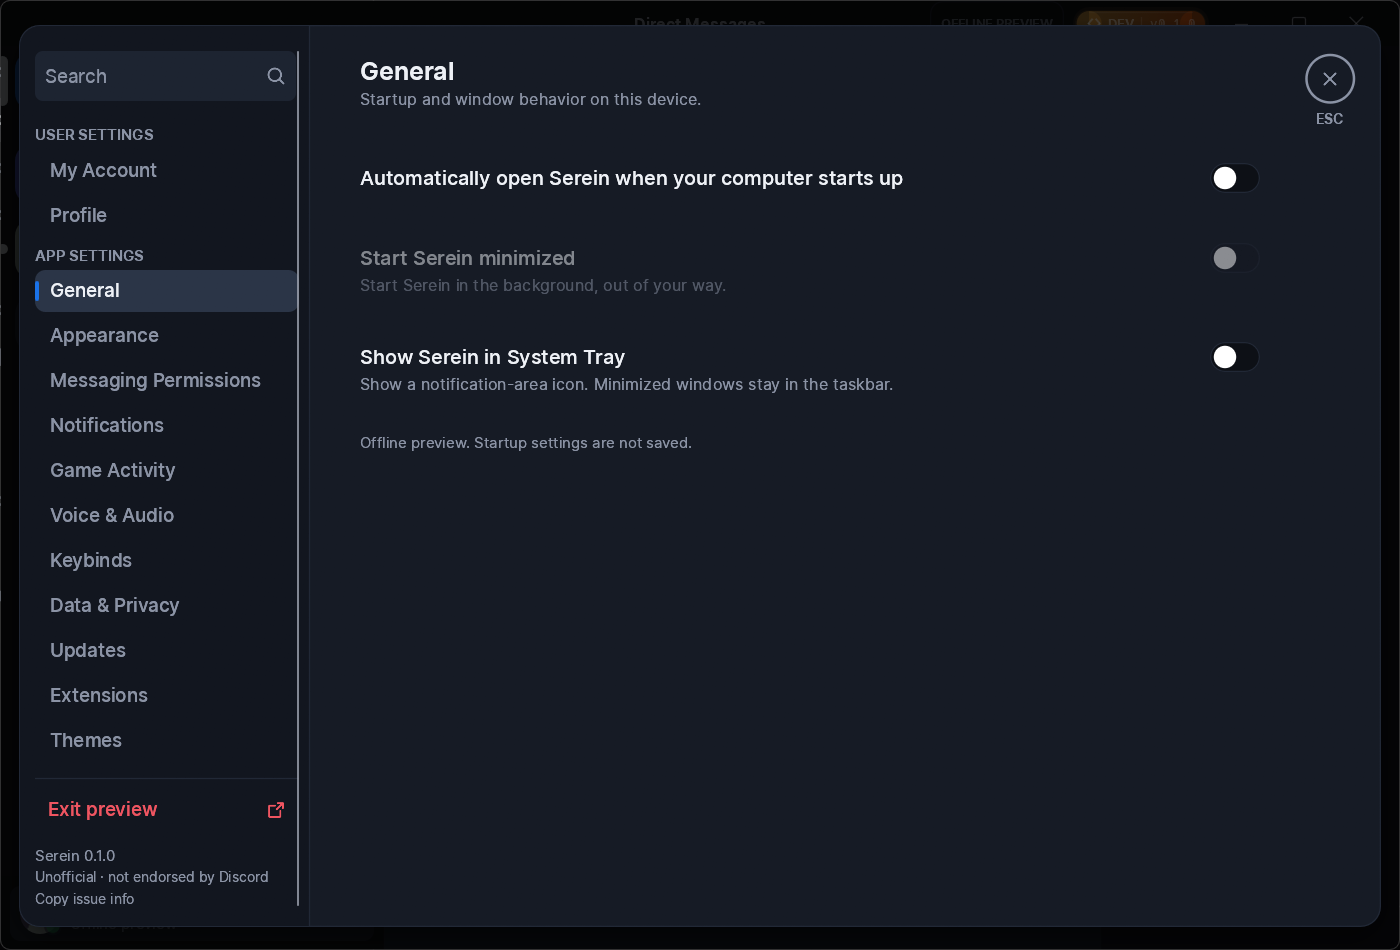
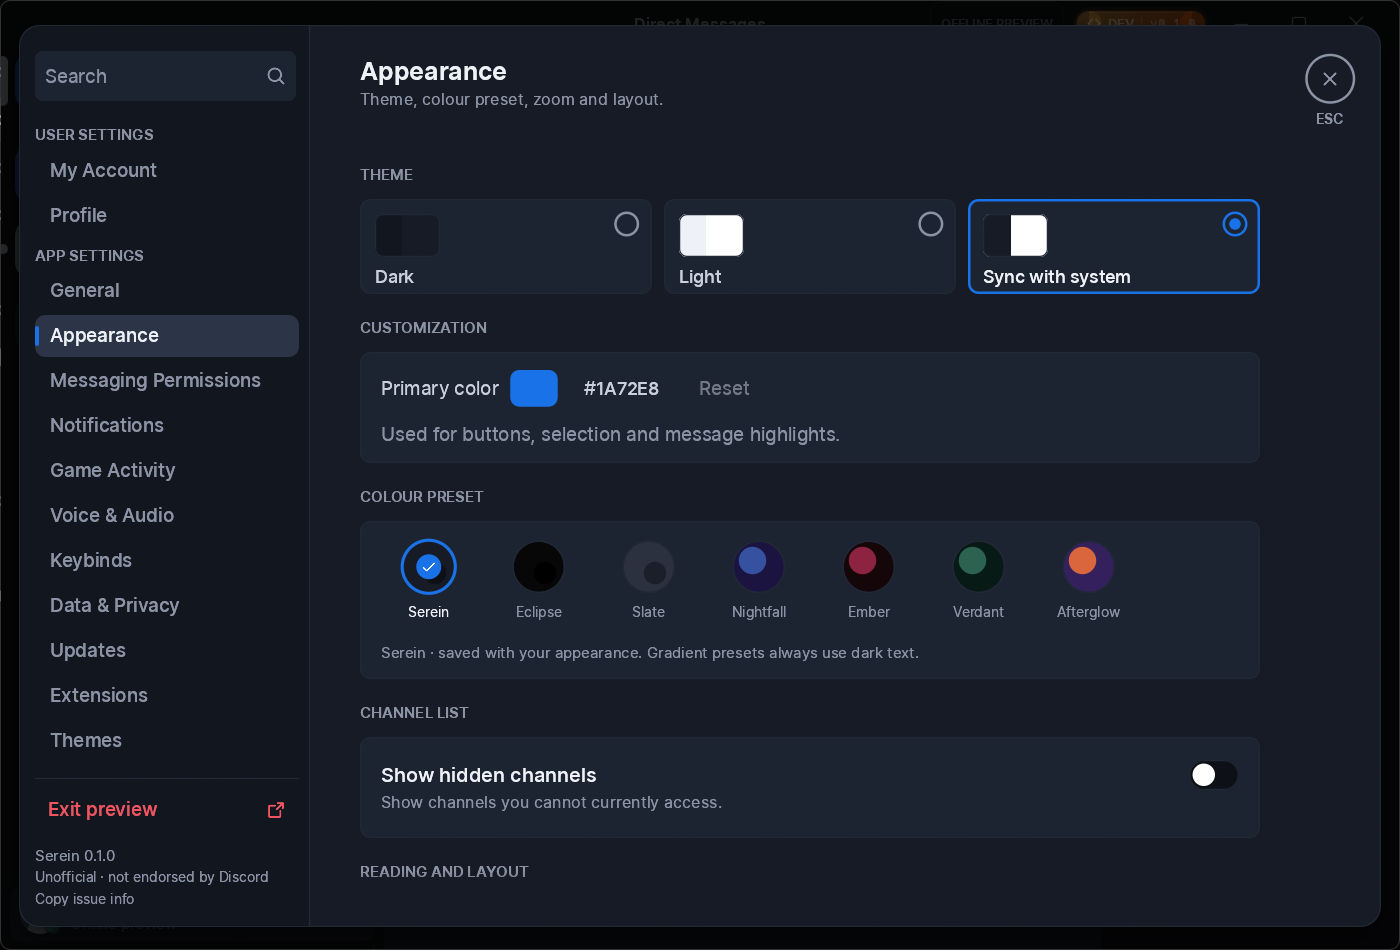
feat(settings): place title bar toggle in Appearance

diff --git a/crates/ui/src/settings.rs b/crates/ui/src/settings.rs
@@ -102,10 +102,10 @@ impl Page {
 			Self::Account => "my account profile logout",
 			Self::Profile => "profile edit display name about me bio pronouns color colour",
 			Self::General => {
-				"general windows macos login menu bar startup autostart automatically open minimized minimize tray background title bar caption"
+				"general windows macos login menu bar startup autostart automatically open minimized minimize tray background"
 			}
 			Self::Appearance => {
-				"appearance customization primary accent hex window tray minimize theme dark light system zoom reading layout sidebar people reset colour color preset animate animated gifs autoplay hide image links confirm confirmation external browser"
+				"appearance customization primary accent hex window title bar caption tray minimize theme dark light system zoom reading layout sidebar people reset colour color preset animate animated gifs autoplay hide image links confirm confirmation external browser"
 			}
 			Self::MessagingPermissions => {
 				"messaging permissions spam filters direct messages dm friend requests personalized connected games"
@@ -654,18 +654,6 @@ impl MessagingUi {
 
 	fn general_settings(&mut self, ui: &mut egui::Ui, demo: bool) {
 		let colors = design::palette(ui);
-		#[cfg(target_os = "windows")]
-		{
-			design::card(ui, |ui| {
-				design::switch(
-					ui,
-					"Hide Serein title bar",
-					Some("Use the Windows title bar and window buttons instead."),
-					&mut self.hide_title_bar,
-				);
-			});
-			ui.add_space(12.0);
-		}
 		ui.add_enabled_ui(self.startup_available && !self.startup_busy, |ui| {
 			design::switch(
 				ui,
@@ -774,6 +762,19 @@ impl MessagingUi {
 		ui.add_space(8.0);
 		ui.label(design::eyebrow(ui, "Theme", colors.muted));
 		theme_preference_cards(ui);
+		#[cfg(target_os = "windows")]
+		{
+			ui.add_space(8.0);
+			ui.label(design::eyebrow(ui, "Window", colors.muted));
+			design::card(ui, |ui| {
+				design::switch(
+					ui,
+					"Hide Serein title bar",
+					Some("Use the Windows title bar and window buttons instead."),
+					&mut self.hide_title_bar,
+				);
+			});
+		}
 		ui.add_space(8.0);
 		ui.label(design::eyebrow(ui, "Customization", colors.muted));
 		design::card(ui, |ui| {

diff --git a/docs/platform-support.md b/docs/platform-support.md
@@ -7,7 +7,7 @@ including over its nonselectable context title. It does not wait for egui's text
 Caption buttons and other clickable title-strip controls keep their own actions; Windows
 double-click maximize/restore remains available. Synthetic egui input tests check command
 dispatch, not native OS window movement, which still requires a desktop interaction check.
-On Windows, General settings can hide this 36 px strip and use the native Windows title bar
+On Windows, Appearance settings can hide this 36 px strip and use the native Windows title bar
 and window buttons instead. The device preference defaults to showing the custom strip and
 is saved with other app preferences; older saved settings keep that default.
 

diff --git a/docs/design.md b/docs/design.md
@@ -64,7 +64,7 @@ CFF builds with binning on looked soft on 1x Windows and Linux displays. See
 ## Layout
 
 - 36px title strip (`base`): hidden native title bar on macOS with traffic lights inline, centred
-  context title, session status text and an OFFLINE PREVIEW / EXPERIMENTAL pill. Windows General
+  context title, session status text and an OFFLINE PREVIEW / EXPERIMENTAL pill. Windows Appearance
   settings can hide the app strip and use native window decorations instead.
 - 72px server rail (`base`): 48px home button and server icons (circle, rounded square when
   hovered/selected), white edge pill (8px unread, 20px hover, 40px selected), red mention badges.
